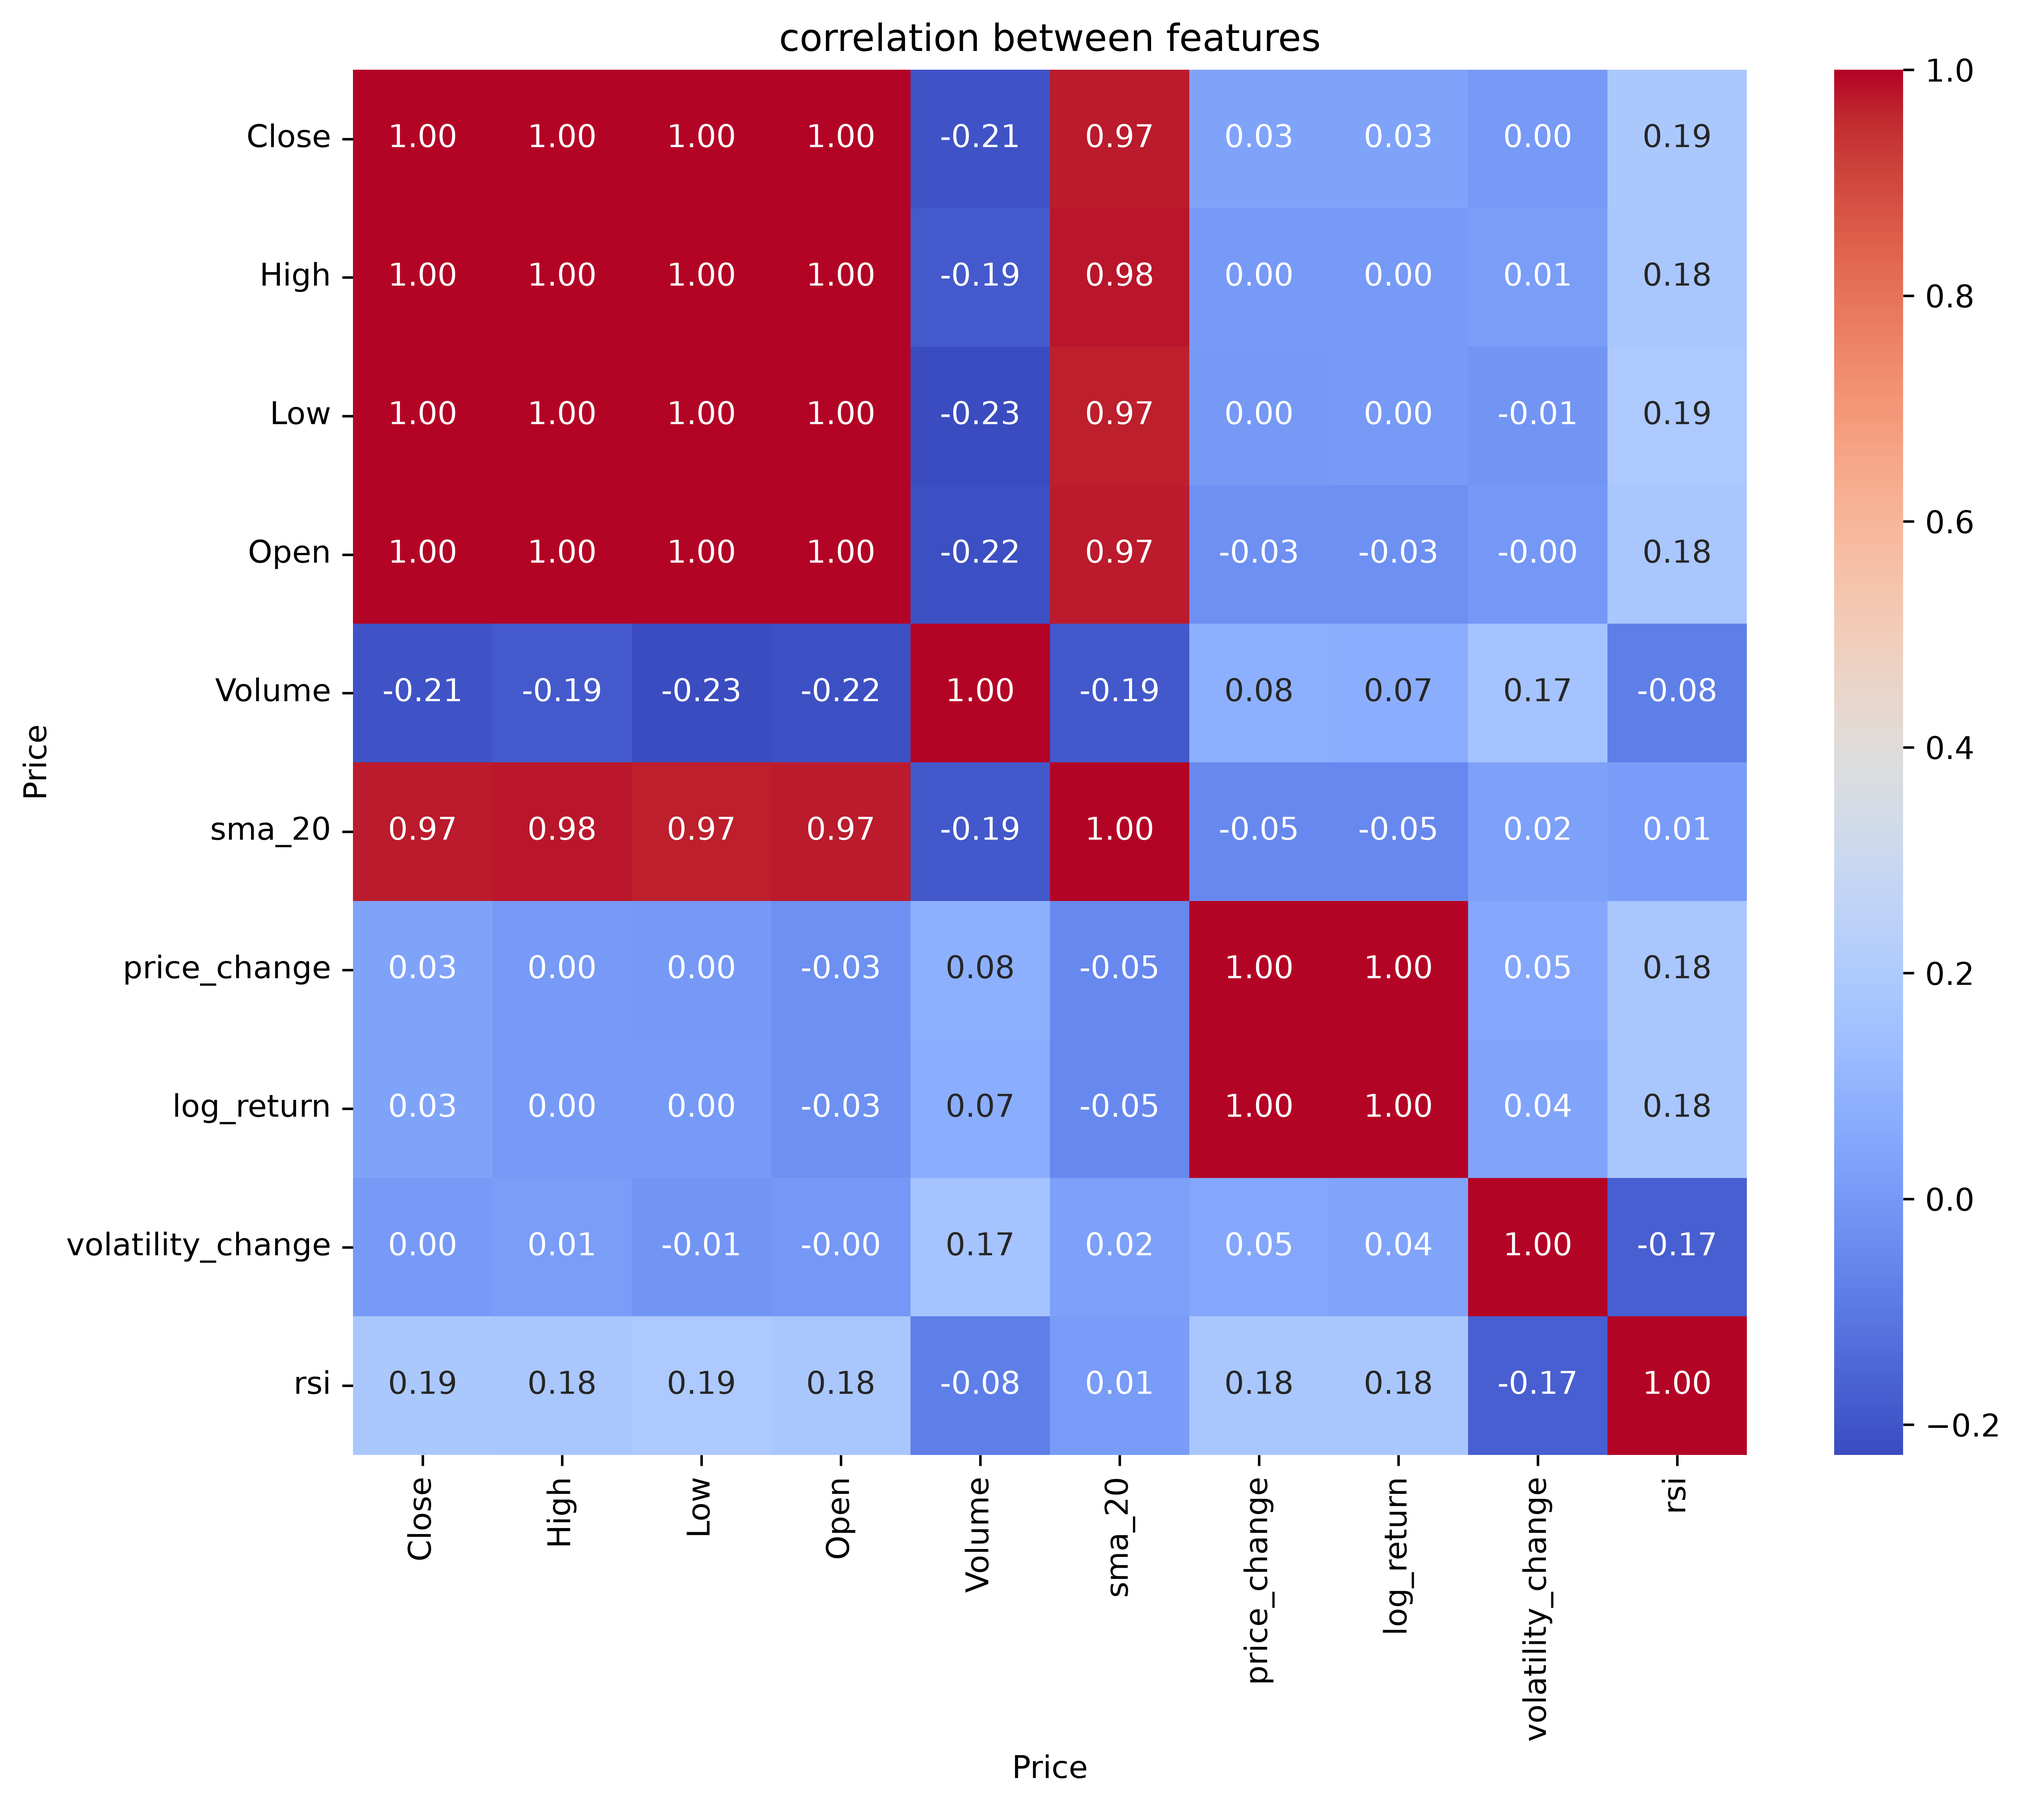
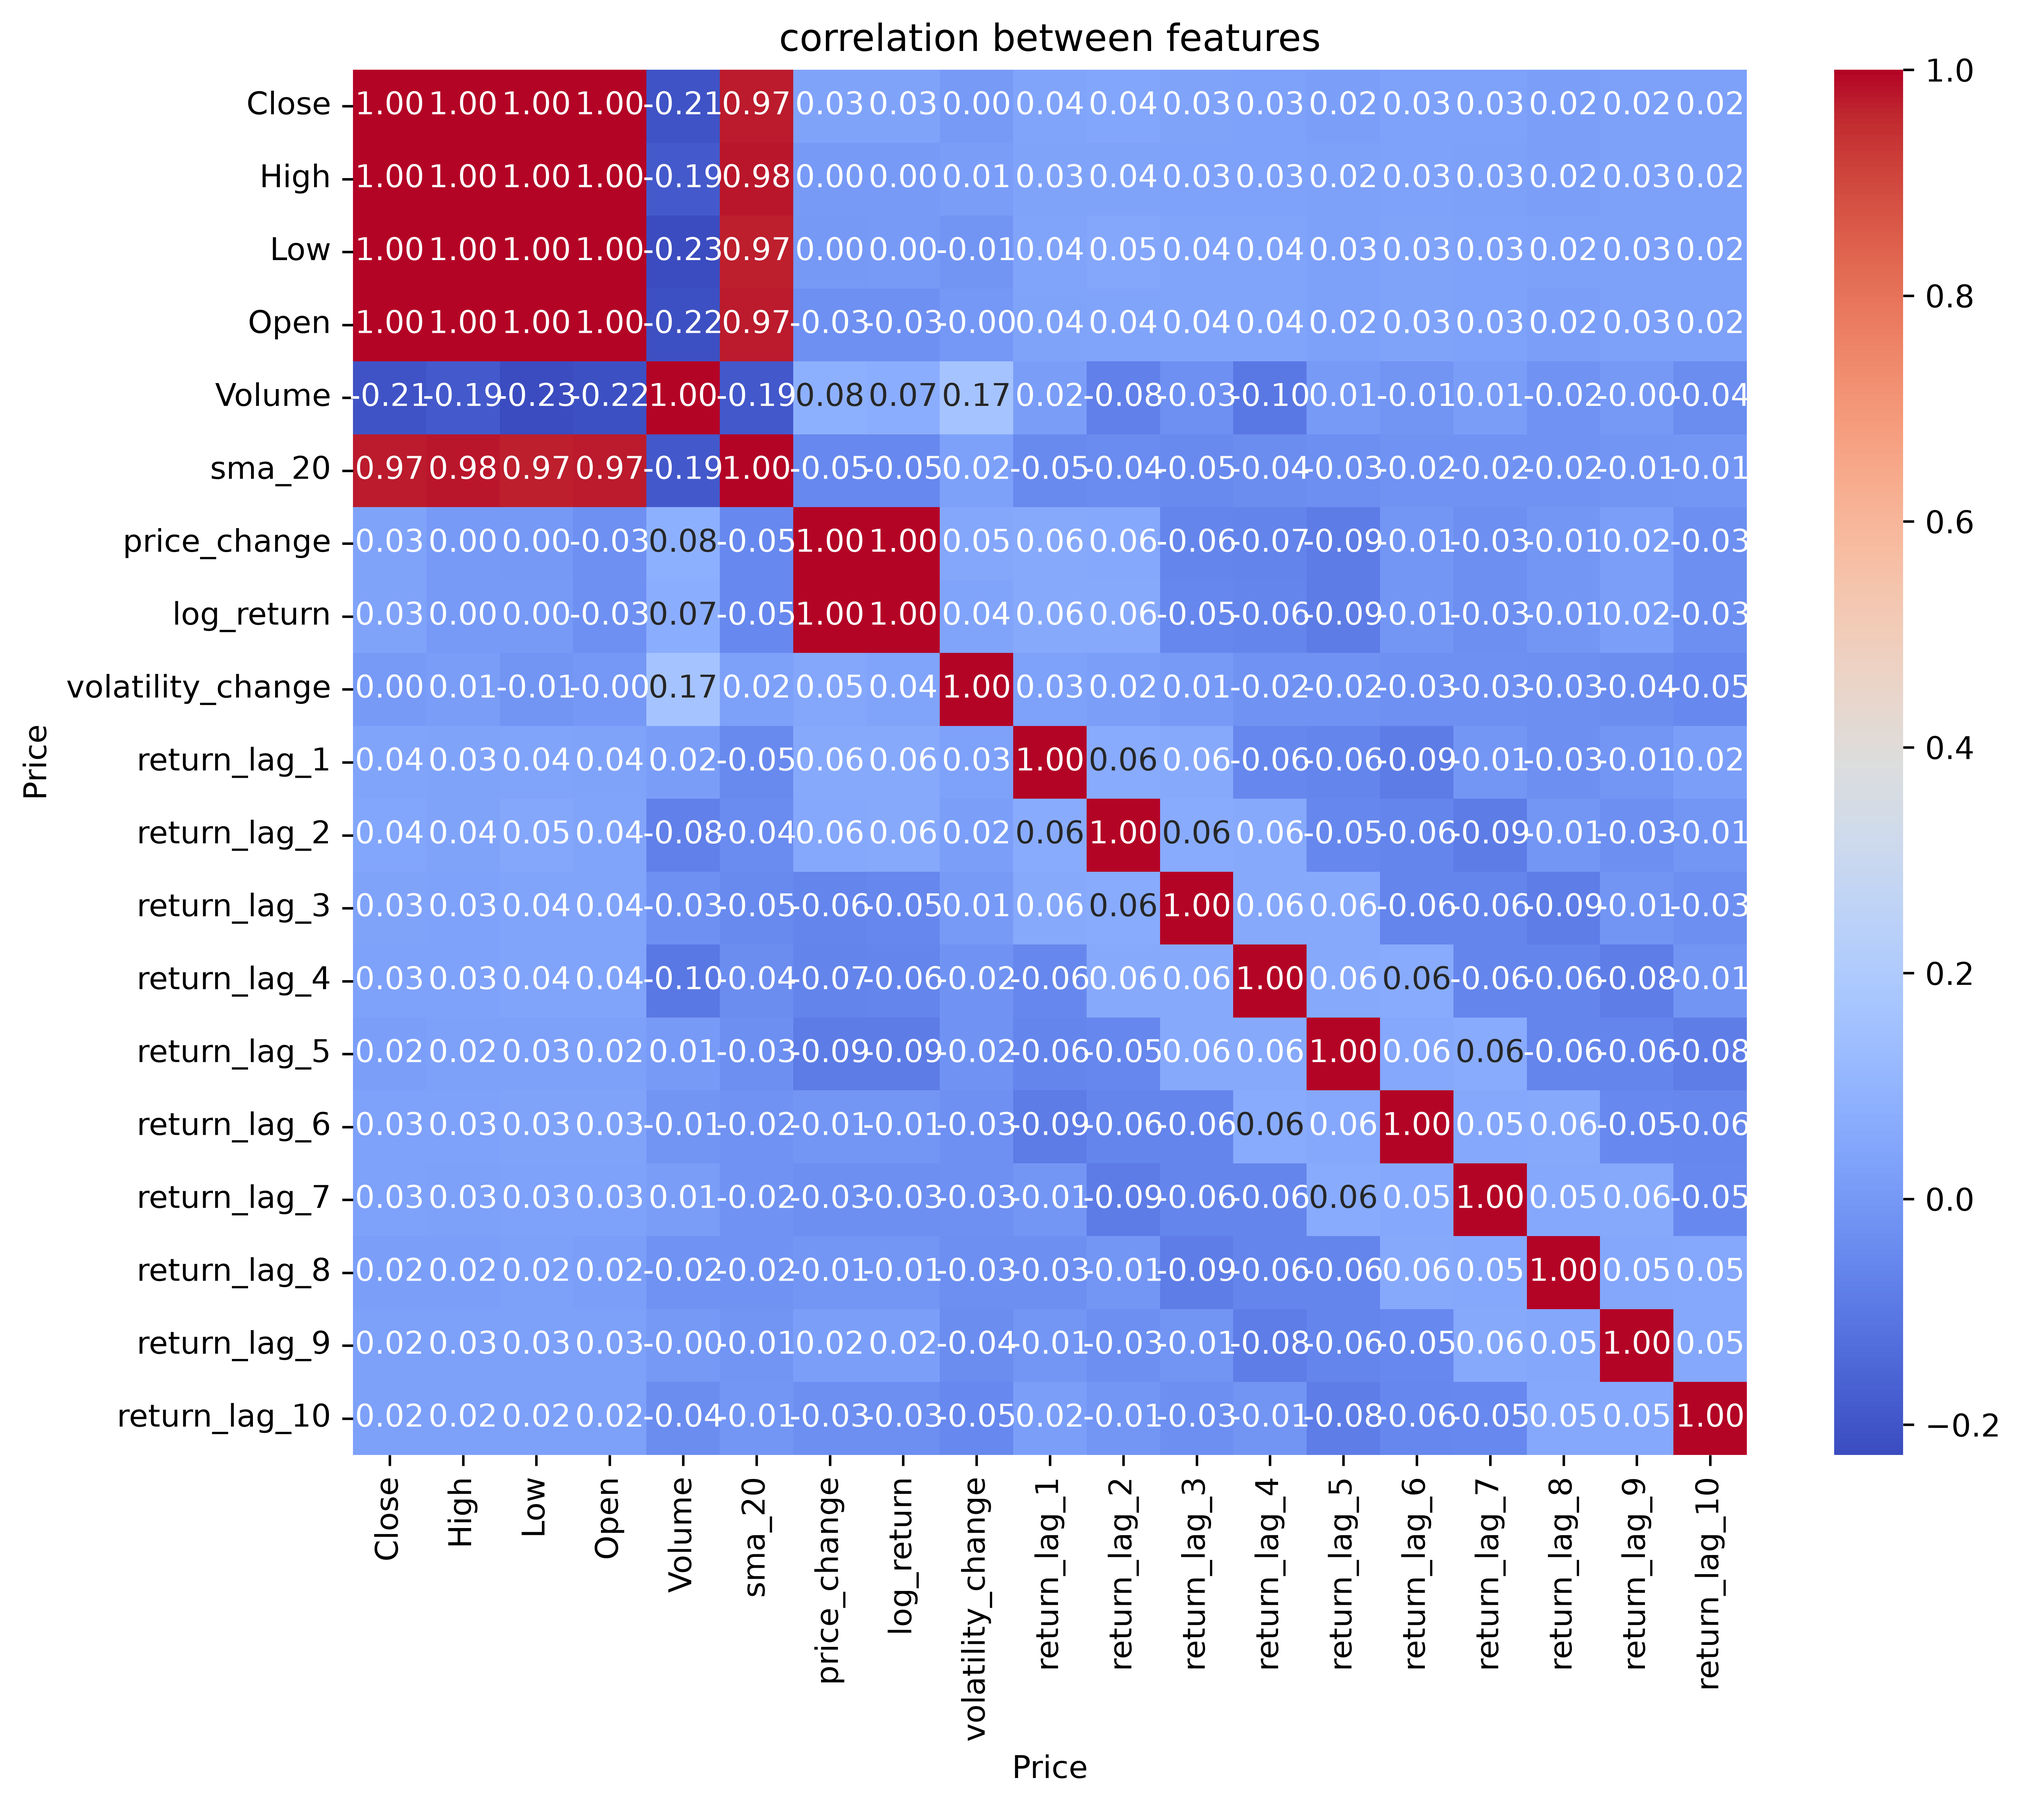
lor in lstm

diff --git a/main.py b/main.py
@@ -6,16 +6,16 @@ os.environ['TF_CPP_MIN_LOG_LEVEL'] = '2'
 
 import keras
 import numpy as np
-from sklearn.preprocessing import MinMaxScaler
+from sklearn.preprocessing import MinMaxScaler,StandardScaler
 from sklearn.metrics import mean_absolute_error,root_mean_squared_error
 import pandas as pd
 import matplotlib.pyplot as plt
 import seaborn as sns
 from datetime import datetime
-
-
+from xgboost import XGBRegressor
 import yfinance as yf
 
+# download data
 ticker = input("Enter ticker of the stock : ")
 ticker = ticker.upper()
 start = str(input(f"Enter the date in format (YYYY-MM-DD) from which date sata will be used to train your model (recommended 3 to 6 years) : "))
@@ -39,60 +39,46 @@ if len(data) < 500:
     print("Not enough historical data to train the model.")
     print(f"data available for {len(data)} days please try again")
     exit()
+# data downloaded
+
+
 
 # too many index :/ :/ :/ :/ :/ :/ :/ :/
 if isinstance(data.columns,pd.MultiIndex):
     data.columns = data.columns.droplevel(1)
 
-data['sma_20'] = data['Close'].rolling(20).mean()
+
+
+# data --
+# data['sma_20'] = data['Close'].rolling(20).mean()
 # print(data[['Close','sma_20']].head(25))
+data['Open-Close-ratio-lag-1'] = np.log(data['Open']/data['Close'].shift(1))
+data['High-Low-ratio'] = np.log(data['High']/data['Low'])
+data['Volume-lag-1'] = np.log(data['Volume'].shift(1))
 data['price_change'] = data['Close'].pct_change()
 data['log_return'] = np.log(data['Close']/data['Close'].shift(1))
 data['volatility_change'] = data['price_change'].rolling(20).std()
+data['price_change_lag_1'] = data['price_change'].shift(1)
+data['Volume_lag_1'] = data['Volume'].shift(1)
+data['volatility_lag_1'] = data['volatility_change'].shift(1)
 
+# loss and gain during training and validation
 diff = data['Close'].diff()
 loss = -diff.clip(upper=0)
 gain = diff.clip(lower=0)
 avg_loss = loss.rolling(20).mean()
 avg_gain = gain.rolling(20).mean()
-relative_strength = avg_gain / avg_loss
-# relative strenth index
-data['rsi'] = 100-(100/(1+relative_strength)) 
+# relative_strength = avg_gain / avg_loss
+# # relative strenth index
+# data['rsi'] = 100-(100/(1+relative_strength)) 
+for lag in range(1,11):
+    data[f'return_lag_{lag}'] = data['log_return'].shift(lag)
+
 data =data.dropna()
 
-plt.figure(figsize= (12,9))
-plt.plot(data['Close'],label = "close" ,color = "red")
-plt.plot(data['sma_20'],label = "sma" ,color = "purple")
-plt.legend()
-plt.show()
 
-
-
-plt.figure(figsize =(12,6))
-plt.plot(data.index, data['Open'], label = "Open", color = "orange")
-plt.plot(data.index, data['Close'], label = "Close", color = "green")
-plt.title("opening and closing price over time")
-plt.legend()
-plt.savefig("images/actual_data.png", dpi=600, bbox_inches="tight")
-plt.show()
-
-plt.figure(figsize =(12,6))
-plt.plot(data.index, data['Volume'], label = "Date-Volume", color = "red")
-plt.title("volume over time")
-plt.savefig("images/volume_over_time.png", dpi=600, bbox_inches="tight")
-plt.show()
-
-
-# correlation between features
-num_data = data.select_dtypes(include= 'number')
-plt.figure(figsize=(10,8))
-sns.heatmap(num_data.corr() ,annot= True,fmt = ".2f", cmap = "coolwarm")
-plt.title("correlation between features")
-plt.savefig("images/heatmap.png", dpi=600, bbox_inches="tight")
-plt.show()
-print(num_data.corr())
-
-features = data[['Open', 'High', 'Low', 'Close', 'Volume','volatility_change','price_change']]
+# ---------------------LSTM--------------------------
+features = data[['Open-Close-ratio-lag-1','High-Low-ratio','Volume-lag-1','volatility_lag_1','price_change_lag_1']]
 target = data[['log_return']]
 train_data = int(np.ceil(len(data)*0.70))
 val_data = int(np.ceil(len(data)*0.80))
@@ -105,8 +91,8 @@ train_target = target.iloc[:train_data]
 val_target = target.iloc[train_data:val_data]
 test_target = target.iloc[val_data:]
 
-TF_scaler = MinMaxScaler()
-TT_scaler = MinMaxScaler() 
+TF_scaler = StandardScaler()
+TT_scaler = StandardScaler() 
 train_features_scaled = TF_scaler.fit_transform(train_features)
 val_features_scaled = TF_scaler.transform(val_features)
 test_features_scaled = TF_scaler.transform(test_features)
@@ -114,6 +100,8 @@ test_features_scaled = TF_scaler.transform(test_features)
 train_target_scaled = TT_scaler.fit_transform(train_target)
 val_target_scaled = TT_scaler.transform(val_target)
 test_target_scaled = TT_scaler.transform(test_target)
+
+
 
 # sliding window for training data x,y
 x_train = []
@@ -125,6 +113,7 @@ x_train = np.array(x_train)
 y_train = np.array(y_train)
 
 
+
 # sliding window for val
 val_data_input = np.concatenate((train_features_scaled[-60:],val_features_scaled))
 val_data_x = []
@@ -134,14 +123,14 @@ val_data_x = np.array(val_data_x)
 val_data_y = val_target_scaled
 
 
-model = keras.models.Sequential()
 
+model = keras.models.Sequential()
 
 # layers
 model.add(keras.layers.LSTM(64, return_sequences= True , input_shape = (x_train.shape[1],x_train.shape[2])))
 model.add(keras.layers.LSTM(64, return_sequences= False))
 model.add(keras.layers.Dense(128, activation= "relu"))
-model.add(keras.layers.Dropout(0.5))
+model.add(keras.layers.Dropout(0.2))
 model.add(keras.layers.Dense(1))
 
 model.summary()
@@ -151,14 +140,7 @@ early_stop = keras.callbacks.EarlyStopping(monitor= "val_loss" ,patience= 3 ,res
 
 training = model.fit(x_train,y_train,epochs=20,batch_size=32,validation_data=(val_data_x,val_data_y),callbacks=[early_stop])
 
-plt.plot(training.history["loss"], label="Training Loss")
-plt.plot(training.history["val_loss"], label="Validation Loss")
-plt.xlabel("Epoch")
-plt.ylabel("MAE")
-plt.title("Training vs Validation Loss")
-plt.legend()
-plt.savefig("images/loss_val-loss_data.png", dpi=600, bbox_inches="tight")
-plt.show()
+
 
 # sliding window for current data it will predict whats the prediction from current data values
 test_input = np.concatenate((val_features_scaled[-60:],test_features_scaled))
@@ -171,14 +153,66 @@ y_test = test_target_scaled
 
 future_return = model.predict(x_test)
 future_return = TT_scaler.inverse_transform(future_return).flatten()
-actual_price = test_features['Close'].values
+actual_price = data['Close'].iloc[val_data:].values
 
-previous_1_price = np.concatenate((val_features['Close'].values[-1:],test_features['Close'].values[:-1]))
+previous_1_price = data['Close'].iloc[val_data-1:val_data+len(test_features_scaled)-1].values
+print("previous_1_price:", previous_1_price.shape)
+print("future_return:", future_return.shape)
 predicted_price = previous_1_price * np.exp(future_return)
 
 #   ----------------- naive baseline --------------------- 
-data_for_bl = np.concatenate((val_features["Close"].values[-1:],test_features["Close"].values[:-1]))
-test_values = test_features["Close"].values
+data_for_bl = np.concatenate((data["Close"].iloc[val_data-1:val_data].values[-1:],data["Close"].iloc[val_data:-1].values))
+test_values = data["Close"].iloc[val_data:].values
+
+#    ------------------- xgboost --------------------------
+xgboost_features = data[
+    [
+        'Open', 
+        # 'High', 
+        # 'Low',
+        'price_change_lag_1',
+        'Volume_lag_1',
+        'volatility_lag_1',
+        "return_lag_1",
+        "return_lag_2",
+        "return_lag_3",
+        "return_lag_4",
+        "return_lag_5",
+        "return_lag_6",
+        "return_lag_7",
+        "return_lag_8",
+        "return_lag_9",
+        "return_lag_10"
+    ]
+]
+
+xgboost_target = data['log_return']
+
+xgb_x_train = xgboost_features.iloc[:train_data]
+xgb_x_val = xgboost_features.iloc[train_data:val_data]
+xgb_x_test = xgboost_features.iloc[val_data:]
+
+
+xgb_y_train = xgboost_target.iloc[:train_data]
+xgb_y_val = xgboost_target.iloc[train_data:val_data]
+xgb_y_test = xgboost_target.iloc[val_data:]
+
+xgb_model = XGBRegressor(
+    n_estimators = 200,
+    learning_rate = 0.05,
+    max_depth = 3,
+    random_state = None
+)
+
+xgb_model.fit(
+    xgb_x_train,
+    xgb_y_train,
+    eval_set = [(xgb_x_val,xgb_y_val)],
+    verbose = False
+)
+
+xgb_prediction = xgb_model.predict(xgb_x_test)
+xgb_predicted_price = previous_1_price*np.exp(xgb_prediction)
 
 
 # for aesthetic
@@ -194,25 +228,69 @@ print(f"mae for Naive Baseline is : {mae:.2f}")
 
 rmse = root_mean_squared_error(data_for_bl,test_values)
 print(f"rmse for Naive Baseline is : {rmse:.2f}")
+
+mae = mean_absolute_error(xgb_predicted_price,actual_price)
+print(f'mae for XGBoost is : {mae: .6f}')
+
+rmse = root_mean_squared_error(xgb_predicted_price,actual_price)
+print(f'rmse for XGBoost is : {rmse: .6f}')
 print("======================================")
 
-# graph
-plt.figure(figsize=(12,8))
-plt.plot(train_features.index,train_features["Close"],label= "trained price", color= "red")
-plt.plot(test_features.index,test_features["Close"],label= "desired actual price", color = "green")
-plt.plot(val_features.index,val_features["Close"],label= "given val price", color = "purple")
-plt.plot(test_features.index,predicted_price,label= "predicted price", color = "blue")
-plt.title("price pridiction usind lstm")
-plt.xlabel("date")
-plt.ylabel("price")
-plt.legend()
-plt.savefig("images/pridicted_data.png", dpi=600, bbox_inches="tight")
+# # graph
+# plt.figure(figsize= (12,9))
+# plt.plot(data['Close'],label = "close" ,color = "red")
+# plt.plot(data['sma_20'],label = "sma" ,color = "purple")
+# plt.legend()
 # plt.show()
 
-plt.figure(figsize=(12,8))
-plt.plot(test_features.index,test_features["Close"],label= "desired actual price", color = "green")
-plt.plot(test_features.index,predicted_price,label= "predicted price", color = "blue")
-plt.plot(test_features.index,data_for_bl,label= "naive baseline", color = "red")
-plt.title("comparison")
+# plt.figure(figsize =(12,6))
+# plt.plot(data.index, data['Open'], label = "Open", color = "orange")
+# plt.plot(data.index, data['Close'], label = "Close", color = "green")
+# plt.title("opening and closing price over time")
+# plt.legend()
+# plt.savefig("images/actual_data.png", dpi=600, bbox_inches="tight")
+# plt.show()
+
+# plt.figure(figsize =(12,6))
+# plt.plot(data.index, data['Volume'], label = "Date-Volume", color = "red")
+# plt.title("volume over time")
+# plt.savefig("images/volume_over_time.png", dpi=600, bbox_inches="tight")
+# plt.show()
+
+# correlation between features
+# num_data = data.select_dtypes(include= 'number')
+# plt.figure(figsize=(10,8))
+# sns.heatmap(num_data.corr() ,annot= True,fmt = ".2f", cmap = "coolwarm")
+# plt.title("correlation between features")
+# plt.savefig("images/heatmap.png", dpi=600, bbox_inches="tight")
+# plt.show()
+# print(num_data.corr())
+
+plt.plot(training.history["loss"], label="Training Loss")
+plt.plot(training.history["val_loss"], label="Validation Loss")
+plt.xlabel("Epoch")
+plt.ylabel("MAE")
+plt.title("Training vs Validation Loss")
 plt.legend()
+plt.savefig("images/loss_val-loss_data.png", dpi=600, bbox_inches="tight")
 plt.show()
+
+# plt.figure(figsize=(12,8))
+# plt.plot(train_features.index,train_features["Close"],label= "trained price", color= "red")
+# plt.plot(test_features.index,test_features["Close"],label= "desired actual price", color = "green")
+# plt.plot(val_features.index,val_features["Close"],label= "given val price", color = "purple")
+# plt.plot(test_features.index,predicted_price,label= "predicted price", color = "blue")
+# plt.title("price pridiction usind lstm")
+# plt.xlabel("date")
+# plt.ylabel("price")
+# plt.legend()
+# plt.savefig("images/pridicted_data.png", dpi=600, bbox_inches="tight")
+# # plt.show()
+
+# plt.figure(figsize=(12,8))
+# plt.plot(test_features.index,test_features["Close"],label= "desired actual price", color = "green")
+# plt.plot(test_features.index,predicted_price,label= "predicted price", color = "blue")
+# plt.plot(test_features.index,data_for_bl,label= "naive baseline", color = "red")
+# plt.title("comparison")
+# plt.legend()
+# plt.show()
